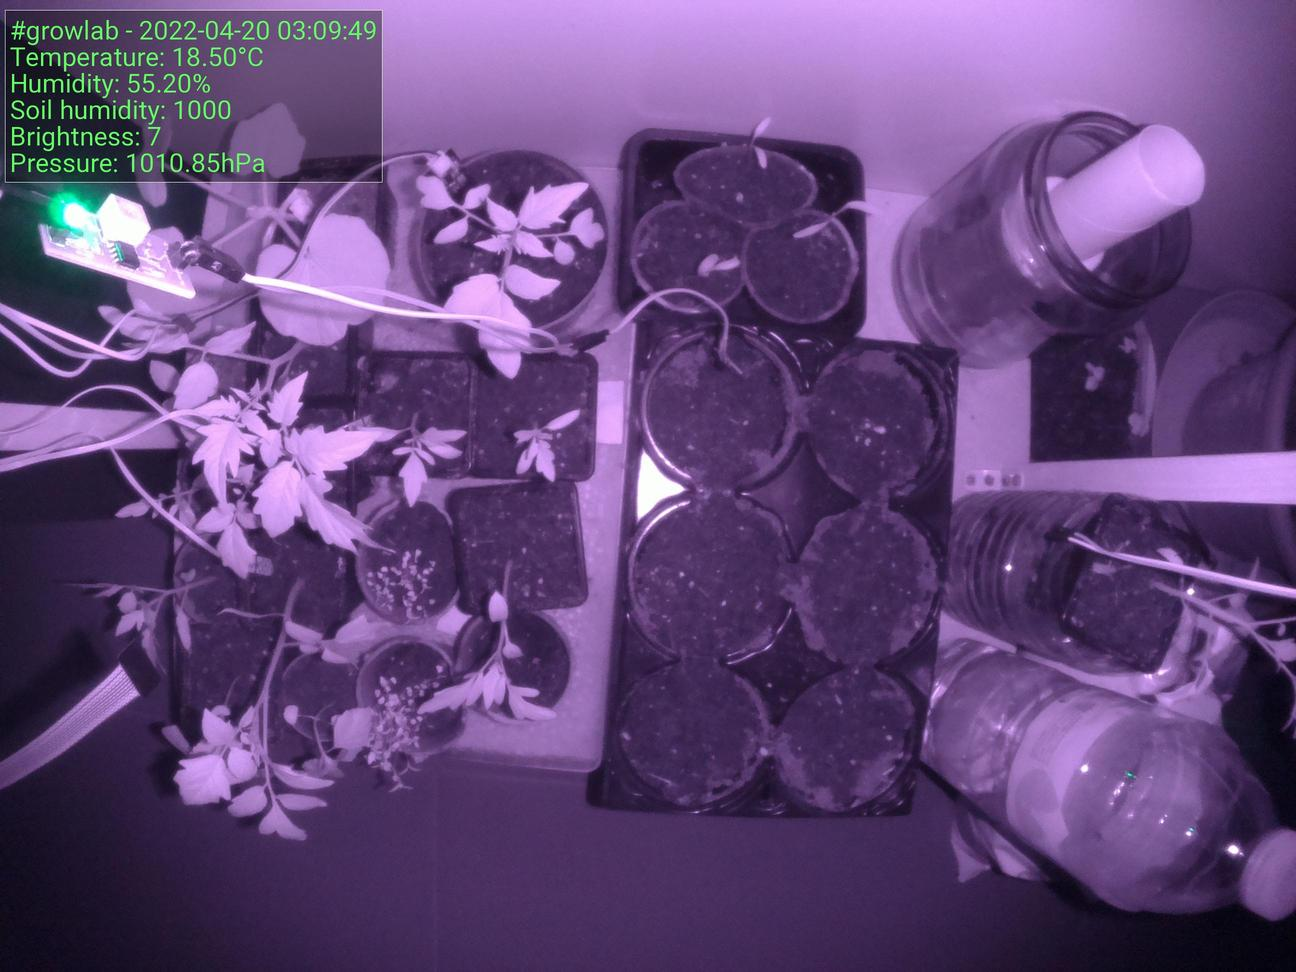
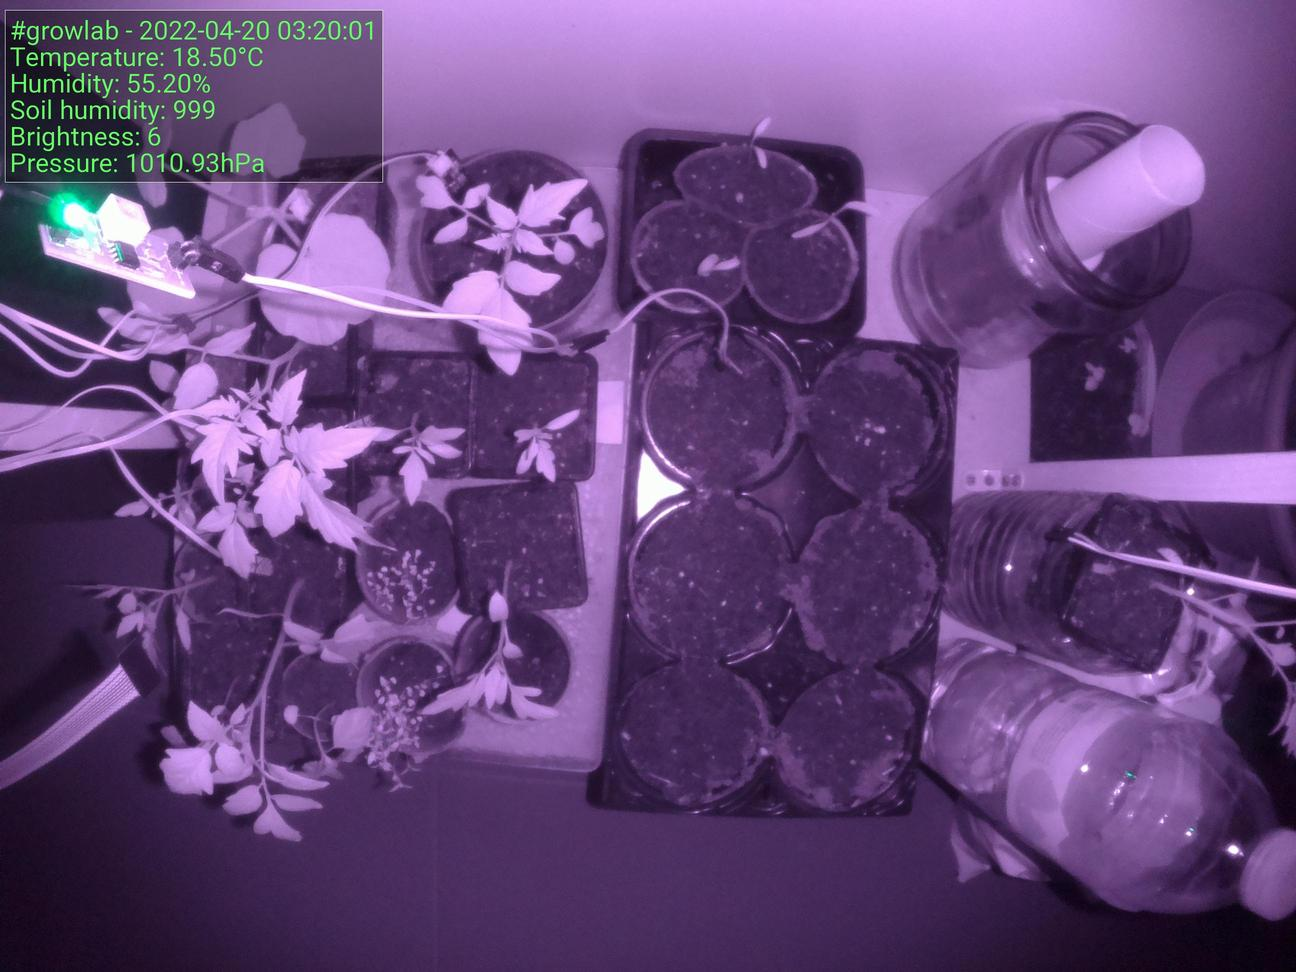
:bento: Update preview

diff --git a/index.html b/index.html
@@ -39,7 +39,7 @@
                     <tbody>
                         <tr>
                             <td>Time</td>
-                            <td>2022-04-20 03:09:49</td>
+                            <td>2022-04-20 03:20:01</td>
                         </tr>
                         <tr>
                             <td>Temperature</td>
@@ -55,7 +55,7 @@
 
                 <h5>Latest image</h5>
 		<div style="width: 85%;">
-	                <img class="figure-img img-fluid rounded" src="./preview.jpg?uid=1650416997.1499708">
+	                <img class="figure-img img-fluid rounded" src="./preview.jpg?uid=1650417608.7961636">
 		</div>
             </div>
         </div>
